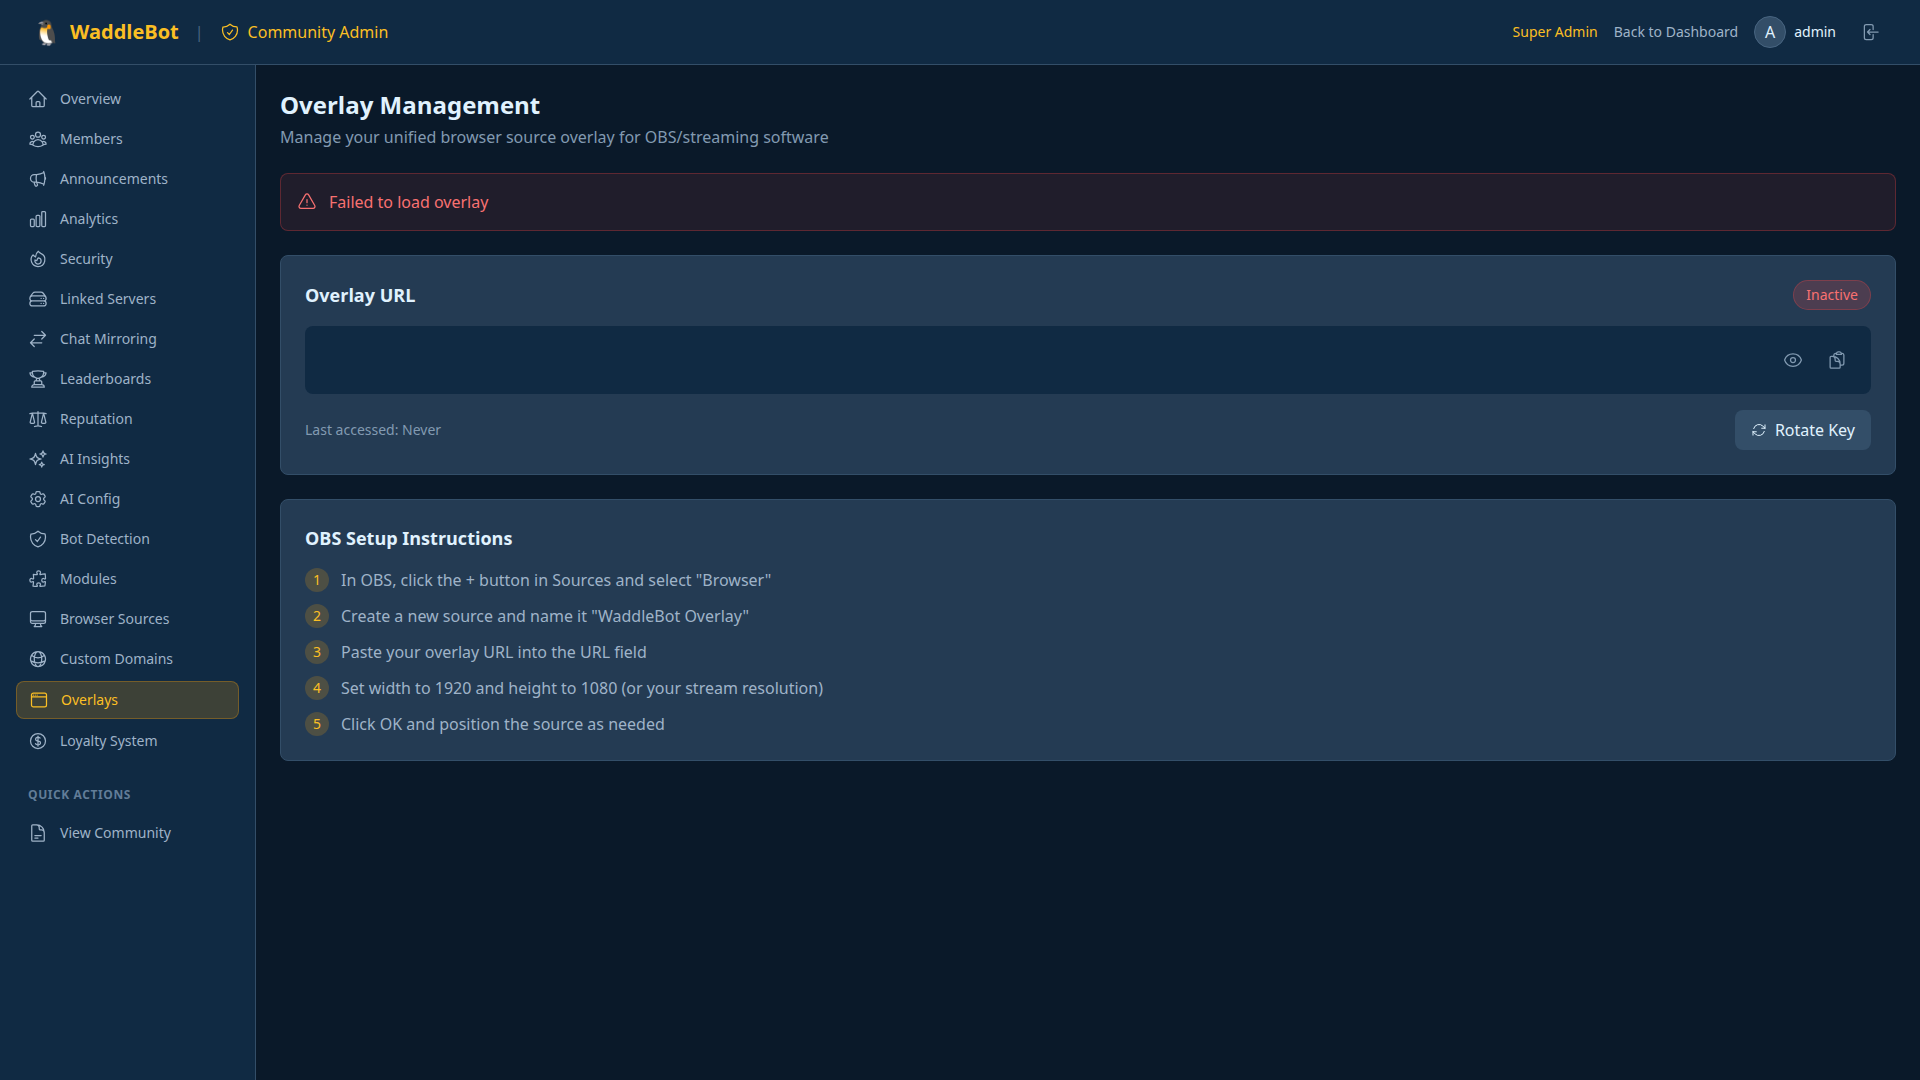
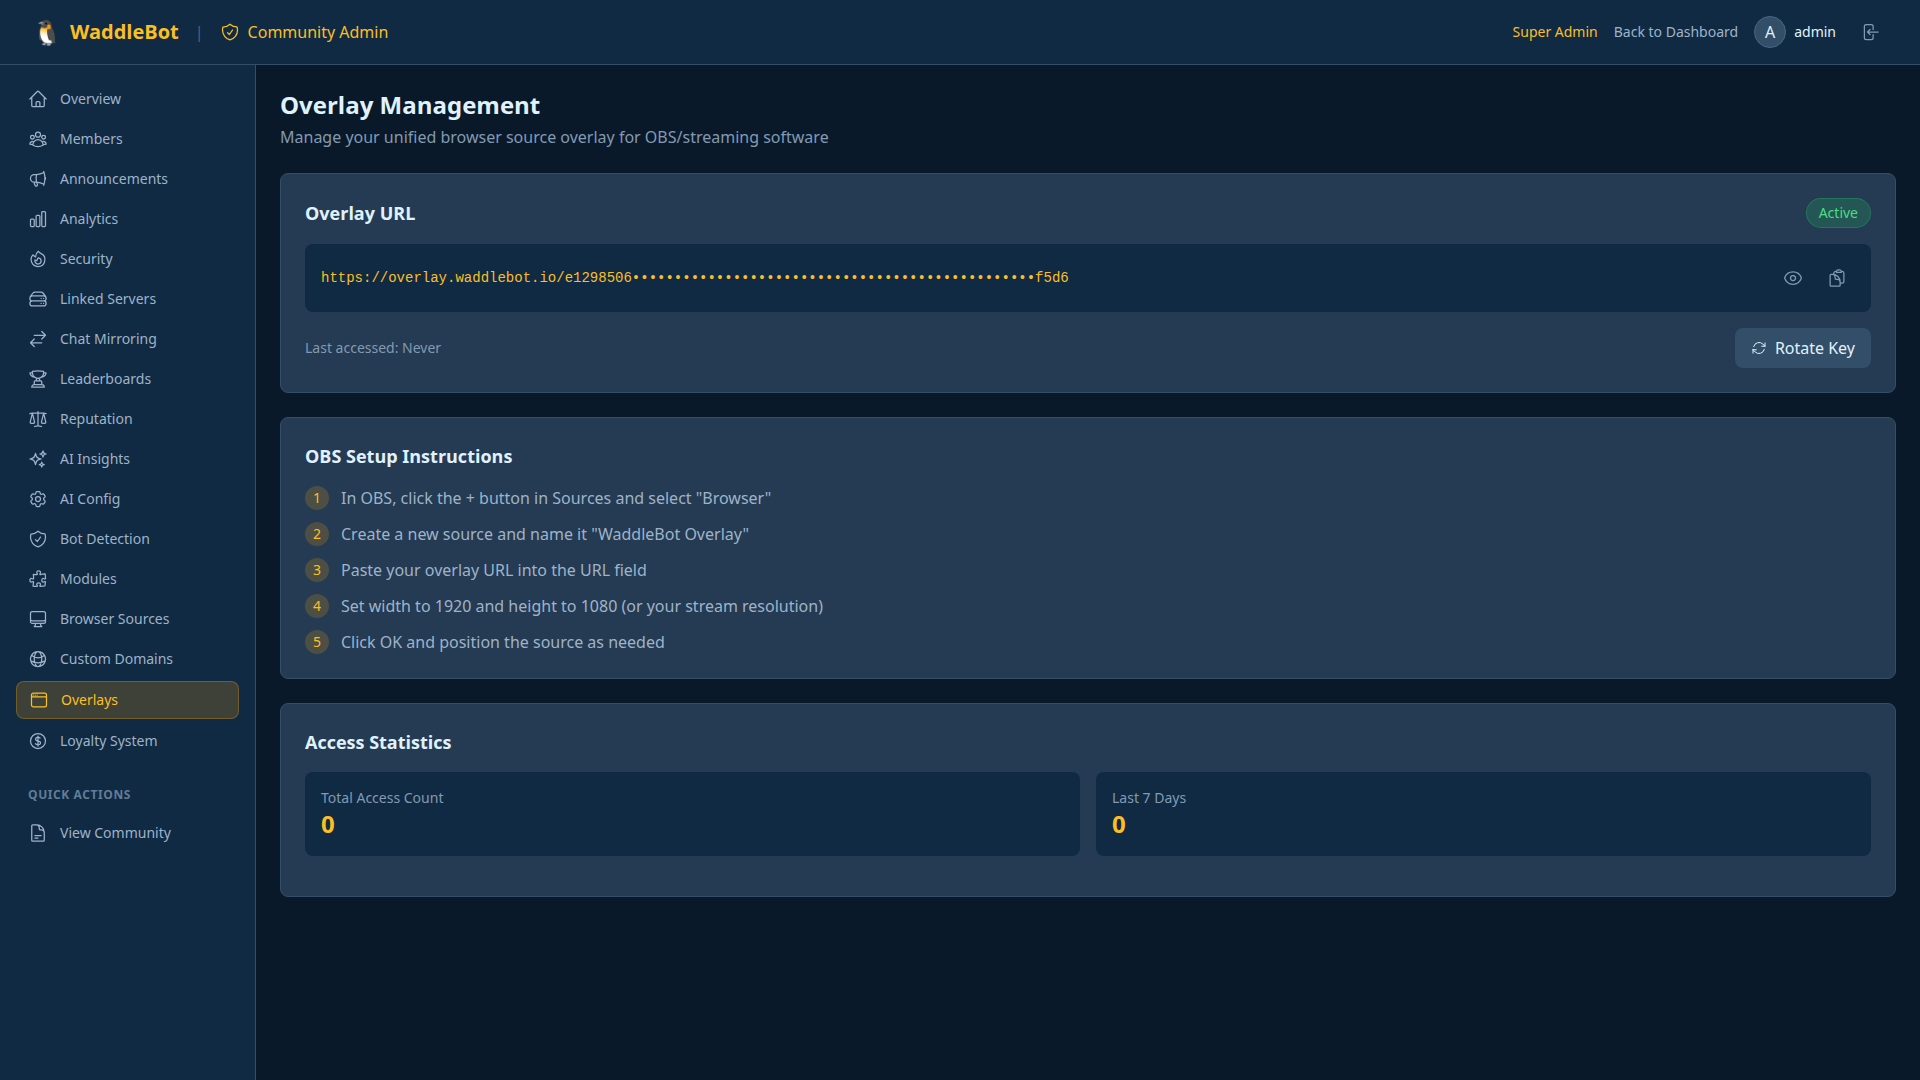
Add Announcement Center for community broadcasts
Features:
- iMessage-style chat bubble display for announcements
- Create, edit, pin, archive announcements
- Broadcast to connected platforms (Discord, Slack, Twitch)
- Platform-specific formatting (embeds, blocks, colored messages)
- Member view on community dashboard
- Smart channel discovery for broadcasting

Backend:
- announcementController.js with full CRUD + actions
- broadcastService.js for multi-platform broadcasting
- Database tables: announcements, announcement_broadcasts
- Database tables: community_overlay_tokens, overlay_access_log
- Routes for all announcement operations

Frontend:
- AdminAnnouncements.jsx admin page
- AnnouncementModal.jsx for create/edit
- BroadcastStatusModal.jsx for broadcast tracking
- Announcement section in CommunityDashboard
- Navigation and routing updates

Also includes updated screenshots for README

🤖 Generated with [Claude Code](https://claude.com/claude-code)

Changed region(s): [[0.125, 0.1528, 1.0, 0.8556]]

diff --git a/admin/hub_module/backend/src/index.js b/admin/hub_module/backend/src/index.js
@@ -272,6 +272,43 @@ async function initializeDatabase() {
       ON announcement_broadcasts(announcement_id)
     `);
 
+    // Create community_overlay_tokens table if not exists
+    await query(`
+      CREATE TABLE IF NOT EXISTS community_overlay_tokens (
+        id SERIAL PRIMARY KEY,
+        community_id INTEGER NOT NULL REFERENCES communities(id) ON DELETE CASCADE,
+        overlay_key VARCHAR(64) NOT NULL UNIQUE,
+        previous_key VARCHAR(64),
+        is_active BOOLEAN DEFAULT true,
+        theme_config JSONB DEFAULT '{}',
+        enabled_sources JSONB DEFAULT '["alerts", "chat", "goals", "ticker"]',
+        last_accessed TIMESTAMP,
+        access_count INTEGER DEFAULT 0,
+        created_at TIMESTAMP DEFAULT CURRENT_TIMESTAMP,
+        updated_at TIMESTAMP DEFAULT CURRENT_TIMESTAMP,
+        rotated_at TIMESTAMP,
+        UNIQUE(community_id)
+      )
+    `);
+
+    // Create overlay_access_log table if not exists
+    await query(`
+      CREATE TABLE IF NOT EXISTS overlay_access_log (
+        id SERIAL PRIMARY KEY,
+        community_id INTEGER NOT NULL,
+        overlay_key VARCHAR(64),
+        ip_address VARCHAR(45),
+        user_agent TEXT,
+        accessed_at TIMESTAMP DEFAULT CURRENT_TIMESTAMP
+      )
+    `);
+
+    // Create index for overlay access log
+    await query(`
+      CREATE INDEX IF NOT EXISTS idx_overlay_access_log_community
+      ON overlay_access_log(community_id, accessed_at DESC)
+    `);
+
     // Check if default admin exists in hub_users (unified auth system)
     const adminCheck = await query(
       'SELECT id FROM hub_users WHERE email = $1',

diff --git a/README.md b/README.md
@@ -108,8 +108,7 @@ Infrastructure (PostgreSQL, Redis, MinIO, Qdrant)
 ![Admin Members](docs/screenshots/admin-members.png)
 ![Admin Announcements](docs/screenshots/admin-announcements.png)
 
-### Loyalty & Engagement
-![Loyalty System](docs/screenshots/admin-loyalty.png)
+### OBS Integration
 ![OBS Overlays](docs/screenshots/admin-overlays.png)
 
 ### Super Admin
